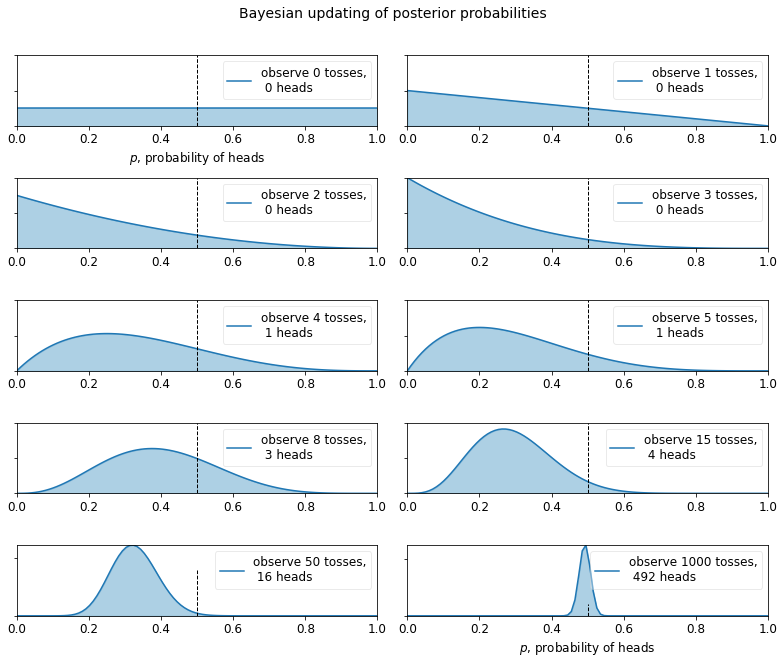
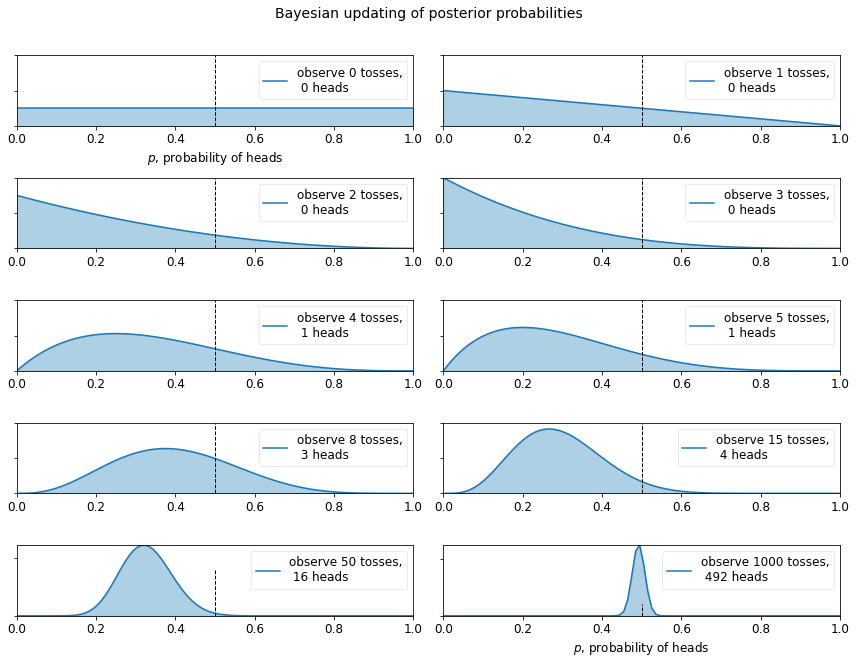
bayes again

diff --git a/docs/intro/intro_to_bayes.md b/docs/intro/intro_to_bayes.md
@@ -4,15 +4,15 @@
 
 Loosely, Bayes' Theorem can be interpeted as 
 
- $$P\left(\boldsymbol{\theta}|\textbf{d}\right)=\frac{P\left(\textbf{d}|\boldsymbol{\theta}\right) P\left> (\boldsymbol{\theta}\right)}{P\left(\textbf{d}\right)}$$
+$$P\left(\boldsymbol{\theta}|\textbf{d}\right)=\frac{P\left(\textbf{d}|\boldsymbol{\theta}\right) P\left> (\boldsymbol{\theta}\right)}{P\left(\textbf{d}\right)}$$
  
 $\boldsymbol{\theta}$ are parameters, $\mathbf{d}$ are the data and  $|$ means "conditional on".
 
 This is really just rearranging the law of conditional probabilities:
 
- $$P\left(\boldsymbol{\theta}|\textbf{d}\right)P\left(\textbf{d}\right)=P\left(\textbf{d}|\boldsymbol{\theta}\right) P\left(\boldsymbol{\theta}\right)$$
+$$P\left(\boldsymbol{\theta}|\textbf{d}\right)P\left(\textbf{d}\right)=P\left(\textbf{d}|\boldsymbol{\theta}\right) P\left(\boldsymbol{\theta}\right)$$
 
- _Um, what?_ Let's use pictres to make this easier to understand.
+_Um, what?_ Let's use pictres to make this easier to understand.
 
 ## A Venn diagram to explore conditional probabilities
 <img src="intro_to_bayes_files/conditional_probability.png" style="float: left; width: 50%; margin-right: 1%; margin-bottom: 0.5em;">
@@ -37,7 +37,7 @@ $$P\left(A|B_1\right)=\frac{P\left(A\cap B_1\right)}{P\left(B_1\right)}$$
 or, equivalently 
 $$P\left(A\cap B_1\right)=P\left(A|B_1\right)P\left(B_1\right)$$
 
- So what about $P\left(A|B_2\right)$?
+So what about $P\left(A|B_2\right)$?
 
 $$
 P\left(A|B_2\right)=\frac{P\left(A\cap B_2\right)}{P\left(B_2\right)}=\frac{0.12}{0.12+0.04}=0.75
@@ -85,9 +85,9 @@ $d_a$: plant is alive when we return
 
 $d_d$: plant is dead when we return
 
- $\mathbf{d} = [d_a,d_d]$: a vector of all possible outcomes
+$\mathbf{d} = [d_a,d_d]$: a vector of all possible outcomes
  
- $\boldsymbol{\theta} = [\theta_w,\theta_{nw}]$: a vector of all possible outcomes
+$\boldsymbol{\theta} = [\theta_w,\theta_{nw}]$: a vector of all possible outcomes
 
 Cool, so let's express what we know in probability equations:
 
@@ -293,9 +293,13 @@ plt.suptitle("Bayesian updating of posterior probabilities",
 plt.tight_layout();
 ```
 
+    findfont: Font family ['sans-serif'] not found. Falling back to DejaVu Sans.
+    findfont: Generic family 'sans-serif' not found because none of the following families were found: Univers 57 Condensed
+    
+
 
     
-![png](intro_to_bayes_files/intro_to_bayes_40_0.png)
+![png](intro_to_bayes_files/intro_to_bayes_40_1.png)
     
 
 
@@ -303,5 +307,3 @@ The posterior probabilities are represented by the curves, and our uncertainty i
 
 Notice that the plots are not always *peaked* at 0.5. There is no reason it should be: recall we assumed we did not have a prior opinion of what $p$ is. In fact, if we observe quite extreme data, say 8 flips and only 1 observed heads, our distribution would look very biased *away* from lumping around 0.5 (with no prior opinion, how confident would you feel betting on a fair coin after observing 8 tails and 1 head). As more data accumulates, we would see more and more probability being assigned at $p=0.5$, though never all of it.
 
-
-![png](intro_to_bayes_files/bayes_editorial.png)
